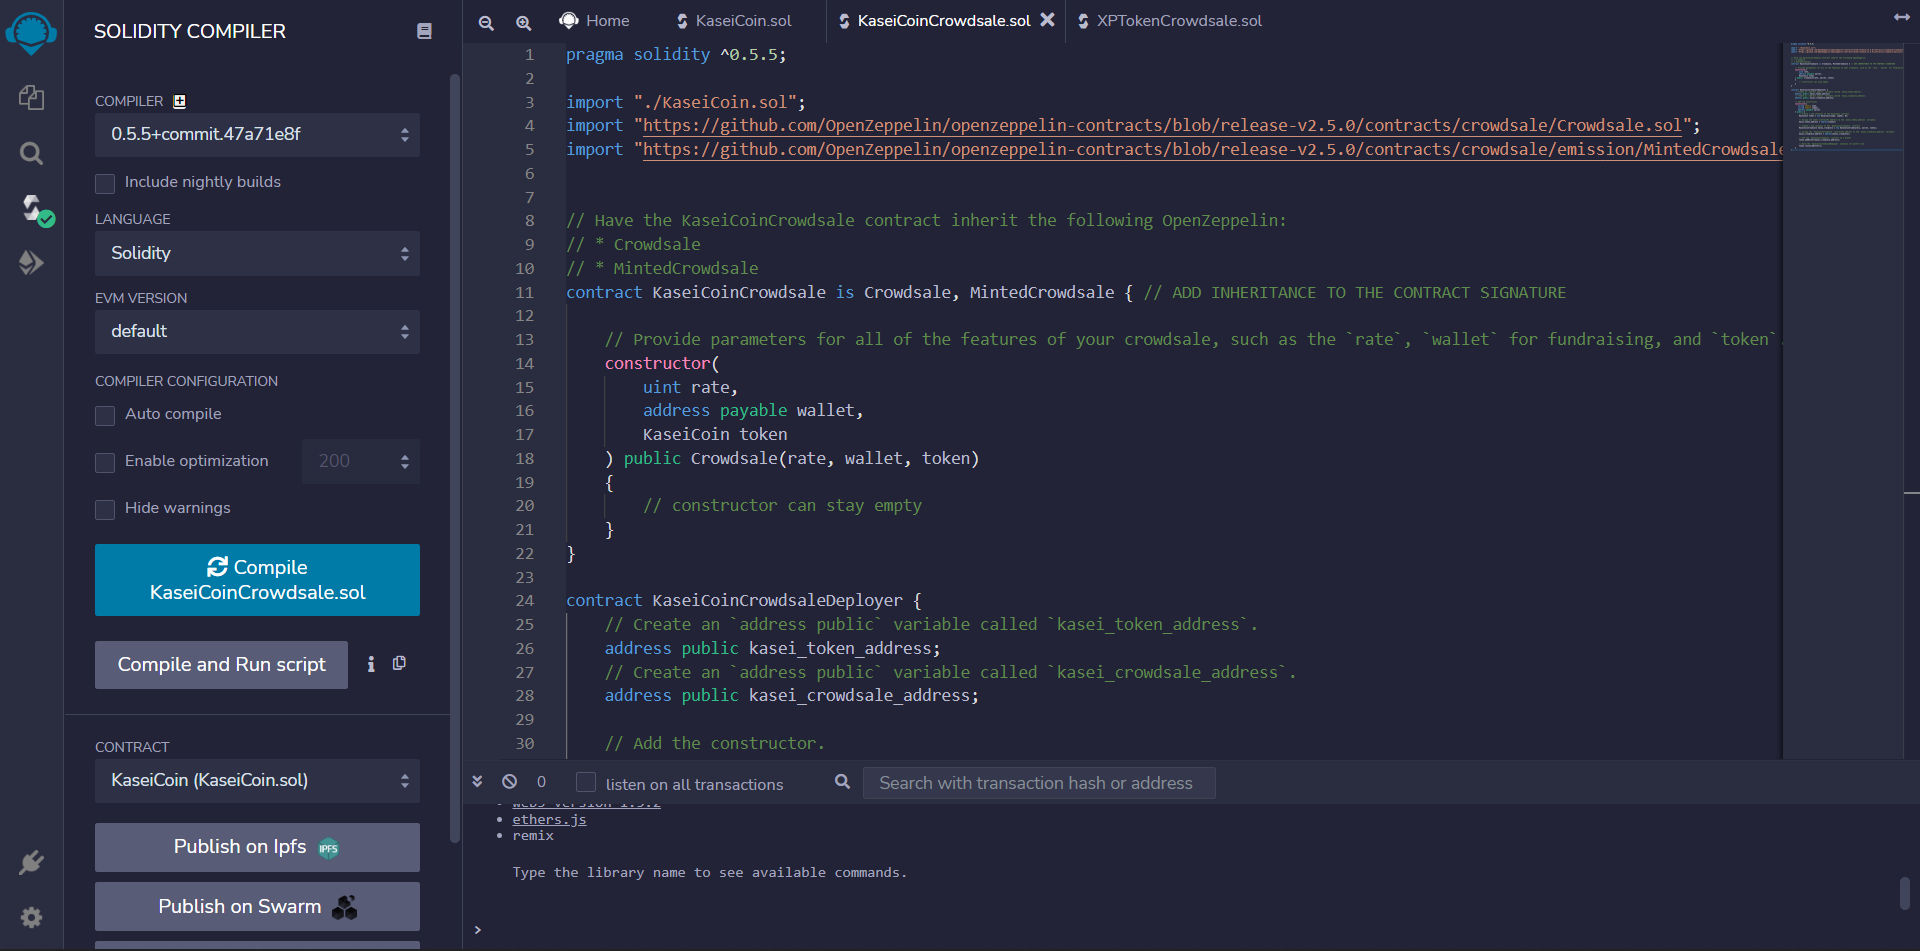
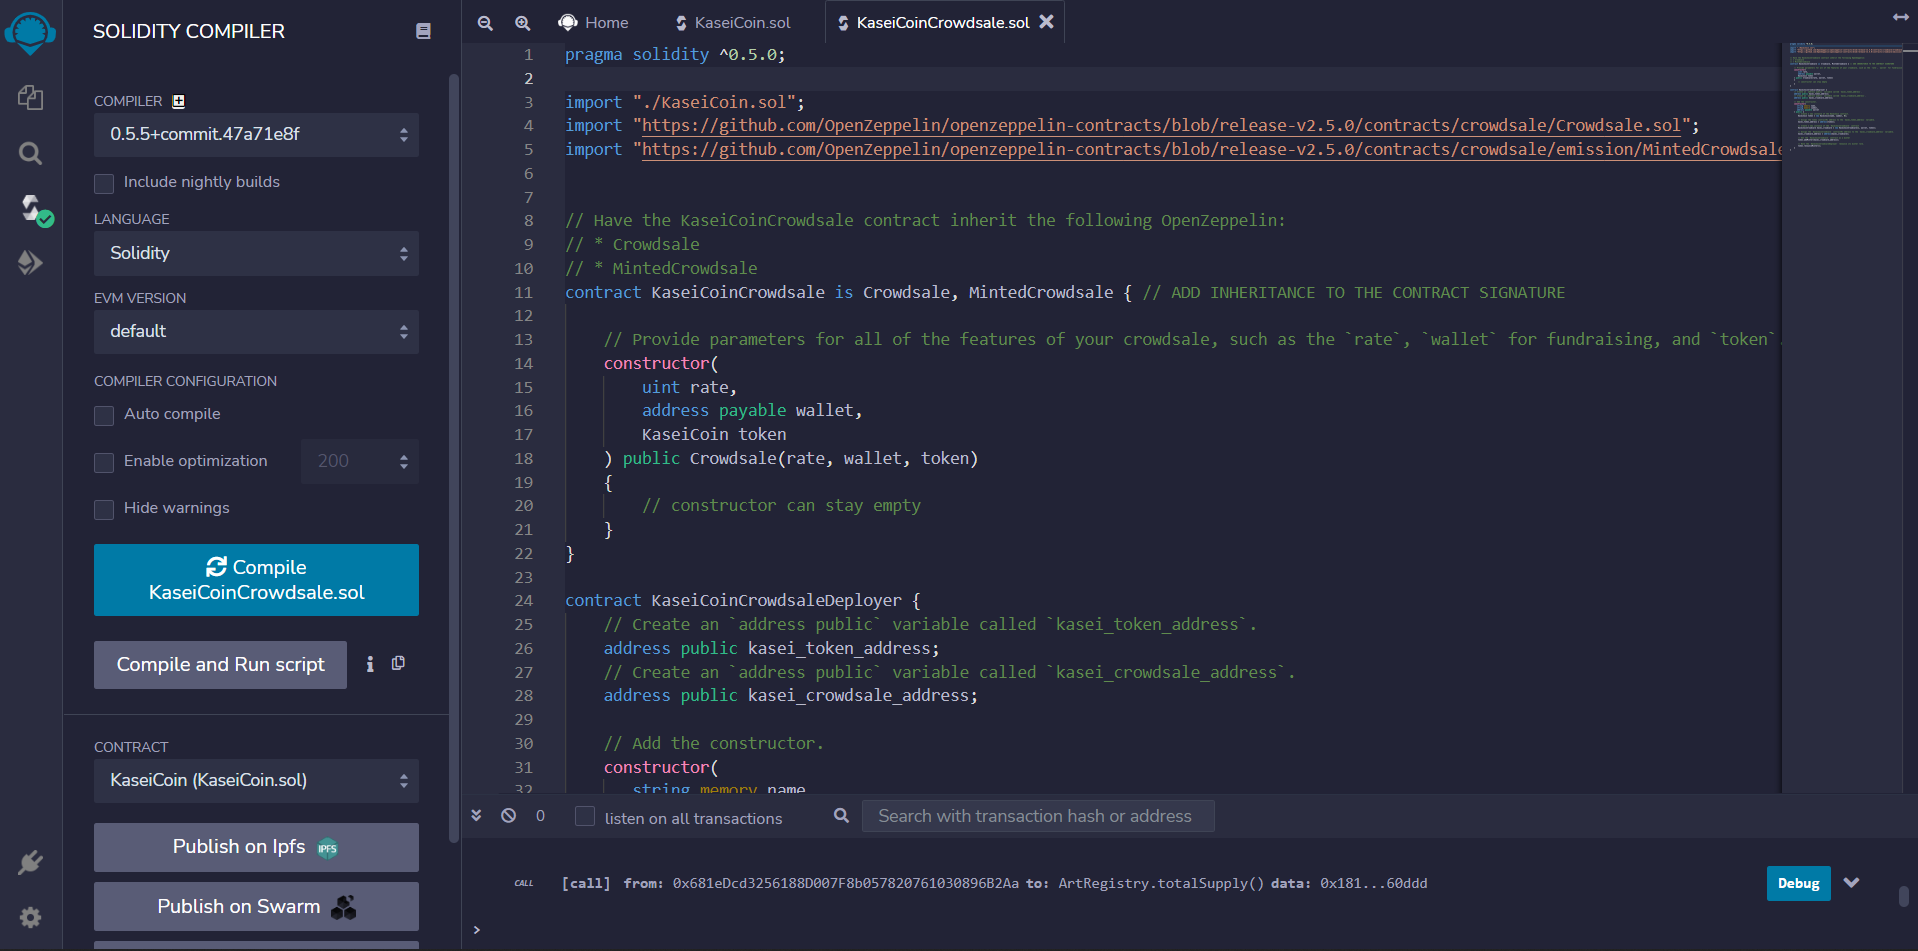
Edited README.md file & changed solidity files to use ver. 0.5.0

diff --git a/README.md b/README.md
@@ -1,1 +1,25 @@
-# Martian_Token_Crowdsale
+# Martian Token Crowdsale
+This prototype project involves three Solidity smart contracts that would allow people moving to Mars to convert their earthling money to a proposed new cryptocurrency named KaseiCoin. The KaseCoin would be an ERC-20 compliant fungible token, and the currency conversion would be accomplished through a crowdsale.  
+
+## Technologies
+The technologies required to use this project are: Remix IDE, MetaMask, and Ganache.
+
+## Examples
+Upon deploying the KaseiCoinCrowdsaleDeployer contract, the other two contracts are also created and can be loaded using their contract addresses. Details of how to deploy and load the smart contracts are shown in the "Deployment" section below. Once the KaseiCoin and KaseiCoinCrowdsale smart contracts are loaded, users can buy new tokens for recipient addresses and check the balances of the accounts. They can also view the total supply of minted tokens and the how much wei the crowdsale contract has raised.   
+
+**Deployment:**
+
+In the "Deploy and Run Transactions" pane, the Injected Web3 environment rather than the JavaScript VM must be selected. In addition, the smart contracts must be deployed in a particular order. From the "Contract" dropdown list, the KaseiCoinCrowdsaleDeployer contract should be selected as the first contract to deploy. There are three fields: Name, Symbol, and Wallet that need to be filled in before clicking the transact button.
+
+![KaseiCoinCrowdsaleDeployer_PreDeploying](Evaluation_Evidence/KaseiCoinCrowdsaleDeployer_PreDeploying.png)
+
+**Buying New Tokens:**
+
+
+![SetAccounts](Evaluation_Evidence/SetAccounts.png)
+
+**Checking Total Supply and Amount Raised:**
+
+
+![SetAccounts](Evaluation_Evidence/SetAccounts.png)
+
